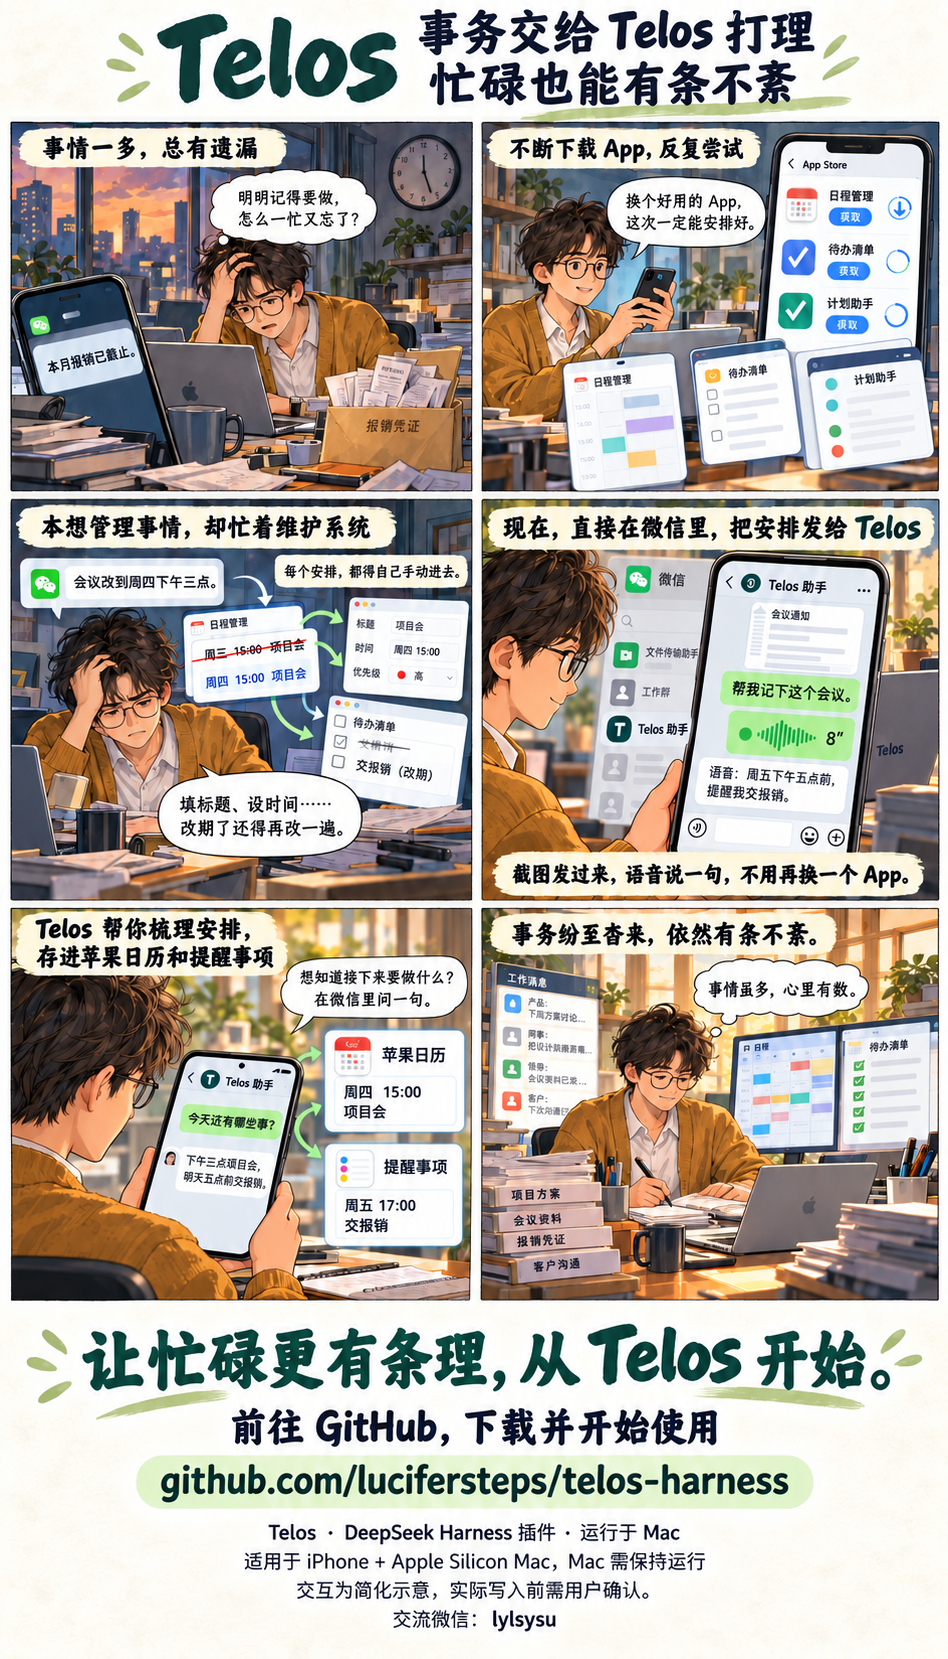
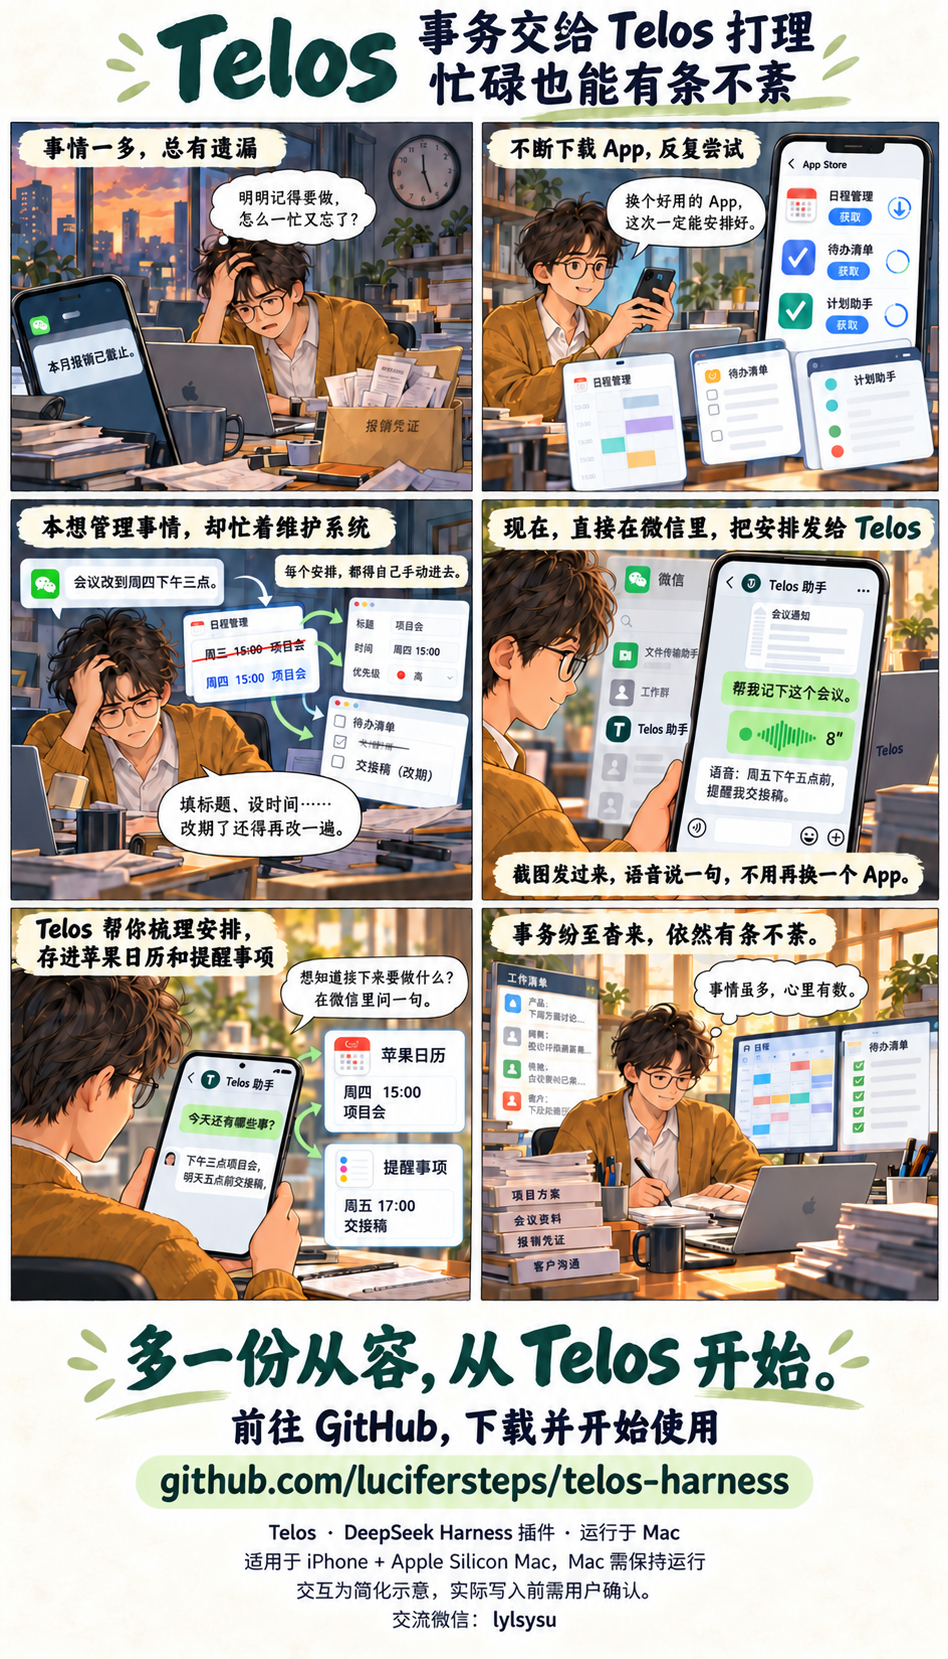
Update comic slogan and add Telos promotional poster

diff --git a/README.md b/README.md
@@ -14,7 +14,9 @@
 
 ![Telos 六格漫画：从遗漏安排、反复尝试管理 App，到在微信里发送截图和语音，由 Telos 整理到 Apple 日历与提醒事项，事务虽多依然从容有序。](docs/assets/telos-story.png)
 
-**让忙碌更有条理，从 Telos 开始。** [下载安装包](https://github.com/lucifersteps/telos-harness/releases/tag/v0.4.11)，或按下方的[「让 AI 帮你安装」](#让-ai-帮你安装)开始配置。
+**多一份从容，从 Telos 开始。** [下载安装包](https://github.com/lucifersteps/telos-harness/releases/tag/v0.4.11)，或按下方的[「让 AI 帮你安装」](#让-ai-帮你安装)开始配置。
+
+[查看六宫格漫画原图](docs/assets/telos-story.png) · [查看宣传海报（含项目二维码）](docs/assets/telos-poster.png)
 
 **使用前提**
 
